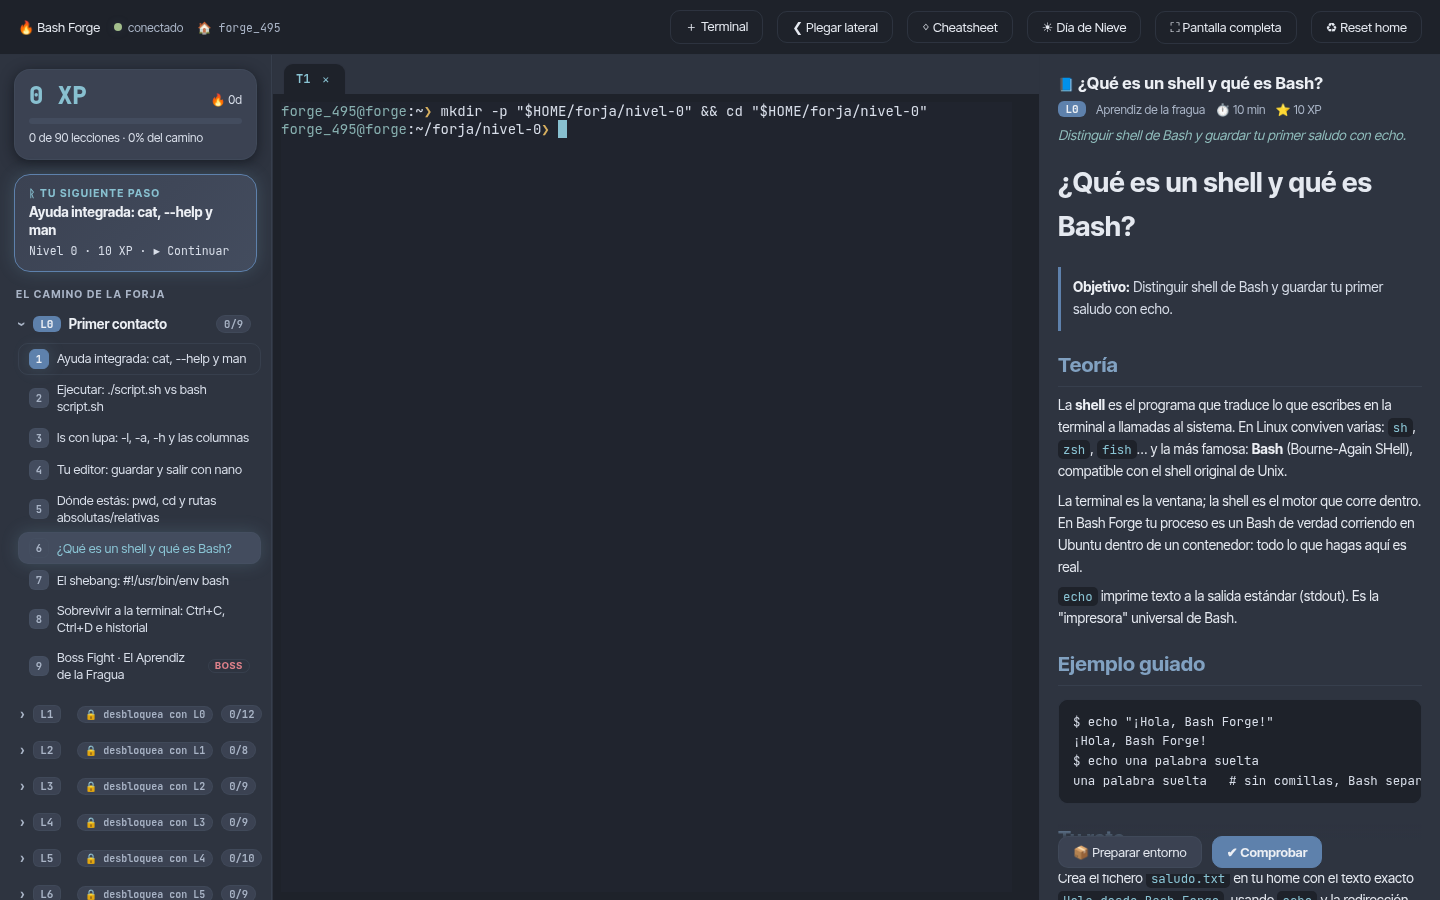
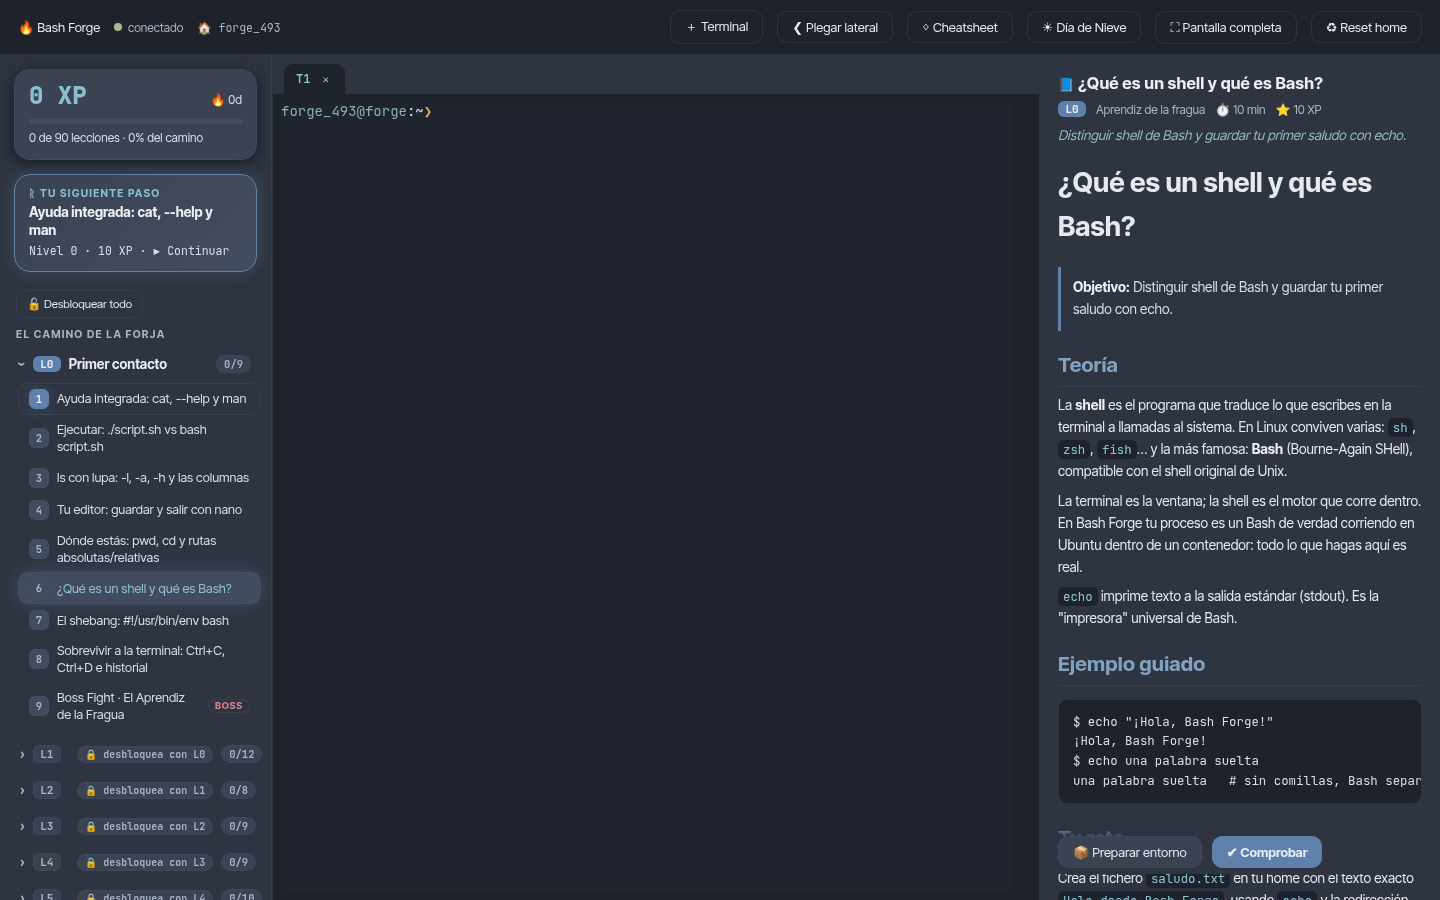
Fase 11: modo avanzado «Desbloquear todo» con re-bloqueo selectivo
- Botón en el sidebar: «🔓 Desbloquear todo» abre cualquier nivel para
  repaso de usuarios avanzados (persistido en localStorage).
- «🔒 Volver a bloquear» re-sella SOLO los niveles que el progreso del
  alumno tenía bloqueados; los ya desbloqueados quedan abiertos.
- El guard de apertura de lecciones respeta el modo (sin flash 🔒).
- E2E ampliado: locked 81→0, Boss L9 abre sin candado, re-lock 81=81;
  evidencias en docs/evidence/10-unlocks/.

🤖 Generated with Codebuff

Changed region(s): [[0.0, 0.3111, 0.1875, 1.0], [0.1875, 0.0933, 0.4062, 0.1556], [0.5312, 0.0933, 0.5625, 0.1244]]

diff --git a/apps/web/src/panels.tsx b/apps/web/src/panels.tsx
@@ -6,6 +6,7 @@ import type { ForgeWs } from "./wsClient";
 import type { LessonLevel, LessonLevelInfo } from "@bashforge/shared";
 import type { LevelGroup } from "./catalog";
 import { isLevelLocked, unlockedLevel } from "./catalog";
+import { isUnlockAll, setUnlockAll } from "./store";
 import { ProgressPopup } from "./progress-popup";
 
 /** ------------------------------------------------------------------ */
@@ -34,7 +35,19 @@ export function Sidebar({ groups, progress, current, onSelect, onImport }: Sideb
   const pct = route.length ? Math.round((doneCount / route.length) * 100) : 0;
 
   // desbloqueo progresivo: el nivel N se abre al completar TODAS las del N-1
-  const unlocked = useMemo(() => unlockedLevel(progress.completed, groups), [progress.completed, groups]);
+  // modo avanzado: con «Desbloquear todo» activo, ningún nivel queda sellado
+  const [todoDesbloqueado, setTodoDesbloqueado] = useState(isUnlockAll);
+  const unlocked = useMemo(
+    () => (todoDesbloqueado ? 9 : unlockedLevel(progress.completed, groups)) as LessonLevel,
+    [progress.completed, groups, todoDesbloqueado],
+  );
+  const toggleDesbloqueo = () => {
+    setTodoDesbloqueado((v) => {
+      const nv = !v;
+      setUnlockAll(nv);
+      return nv;
+    });
+  };
 
   // niveles abiertos: los desbloqueados hasta el del siguiente paso (controlado, para no pelear con <details>)
   // persistidos: al recargar, la forja retoma EN la sección donde estabas
@@ -104,6 +117,21 @@ export function Sidebar({ groups, progress, current, onSelect, onImport }: Sideb
           <span className="next-meta">Repasa lo que quieras</span>
         </div>
       )}
+
+      <div className="unlock-row">
+        <button
+          className={`ghost unlock-btn${todoDesbloqueado ? " on" : ""}`}
+          onClick={toggleDesbloqueo}
+          title={
+            todoDesbloqueado
+              ? "Restaura los candados: se vuelven a sellar solo los niveles que estaban bloqueados por tu progreso"
+              : "Usuario avanzado: abre todos los niveles para practicar cualquiera"
+          }
+        >
+          {todoDesbloqueado ? "🔒 Volver a bloquear" : "🔓 Desbloquear todo"}
+        </button>
+        {todoDesbloqueado && <span className="unlock-hint">modo avanzado · niveles libres</span>}
+      </div>
 
       <div className="tree-title">El camino de la forja</div>
       <nav className="lesson-tree">

diff --git a/apps/web/src/App.tsx b/apps/web/src/App.tsx
@@ -6,6 +6,7 @@ import { LessonPanel, Sidebar, flatOrder } from "./panels";
 import { Cheatsheet } from "./cheatsheet-popup";
 import type { LevelGroup } from "./catalog";
 import { groupByLevel, isLevelLocked, unlockedLevel } from "./catalog";
+import { isUnlockAll } from "./store";
 import { currentTheme, toggleTheme } from "./theme";
 import {
   bumpStreak,
@@ -214,9 +215,10 @@ export function App() {
   const selectLesson = useCallback(
     async (id: string) => {
       // candado por nivel: no se puede abrir una lección de un nivel bloqueado
+      // (el modo avanzado «Desbloquear todo» lo ignora)
       const completed = progressRef.current?.completed ?? [];
       const lvl = catalog.find((m) => m.id === id)?.level ?? loaded.get(id)?.level;
-      if (lvl != null && isLevelLocked(lvl, unlockedLevel(completed, groupsRef.current))) {
+      if (!isUnlockAll() && lvl != null && isLevelLocked(lvl, unlockedLevel(completed, groupsRef.current))) {
         flash(`🔒 Ese nivel sigue sellado: termina todas las lecciones del nivel ${lvl - 1} y se desbloqueará solo.`);
         return;
       }

diff --git a/apps/web/src/styles.css b/apps/web/src/styles.css
@@ -113,6 +113,16 @@ button.ghost:hover:not(:disabled) { background: var(--bg-surface); }
 .next-title { font-size: 13.5px; font-weight: 700; color: var(--fg-strong); line-height: 1.3; }
 .next-meta { font-size: 11.5px; color: var(--fg-muted); font-family: var(--font-mono); }
 
+.unlock-row {
+  display: flex; align-items: center; gap: 8px;
+  padding: 4px 16px 8px; flex-wrap: wrap;
+}
+.unlock-btn { flex: 0 1 auto; padding: 6px 10px; font-size: 11.5px; }
+.unlock-btn.on { color: var(--aurora-y-text); border-color: var(--aurora-y); }
+.unlock-hint {
+  font-size: 10px; letter-spacing: .4px; color: var(--fg-faint); font-family: var(--font-mono);
+}
+
 .tree-title {
   padding: 2px 16px 6px; font-size: 10.5px; letter-spacing: 1.3px;
   text-transform: uppercase; color: var(--fg-faint); font-weight: 700;

diff --git a/apps/web/src/store.ts b/apps/web/src/store.ts
@@ -2,6 +2,24 @@ import type { ProgressSnapshot } from "@bashforge/shared";
 import { BADGES, LESSON_LEVELS, type LessonLevel } from "@bashforge/shared";
 
 const KEY = "bf.progress.v1";
+const UNLOCK_KEY = "bf.unlockAll";
+
+/** Modo avanzado: «Desbloquear todo» ignora los candados progresivos (repaso libre). */
+export function isUnlockAll(): boolean {
+  try {
+    return localStorage.getItem(UNLOCK_KEY) === "1";
+  } catch {
+    return false;
+  }
+}
+
+export function setUnlockAll(on: boolean): void {
+  try {
+    localStorage.setItem(UNLOCK_KEY, on ? "1" : "0");
+  } catch {
+    /* modo privado */
+  }
+}
 
 export function blankProgress(forgeId: string): ProgressSnapshot {
   return {

diff --git a/docs/evidence/INDEX.md b/docs/evidence/INDEX.md
@@ -55,3 +55,4 @@
 | 10 | Purga con export de seguridad | `/api/progress` + `/api/progress/:forgeId` y respaldo automático en `backups/` ANTES de borrar volúmenes + confirmación | backup `bashforge-progreso-forge_demo.json` generado en `backups/progreso-*/` y borrado después intacto | `apps/sandbox-server/src/http.ts` + log |
 | 10 | Nivel 9: bucles | level9.yaml (for reforzado, while acumulador, until, case en bucle, anidados break 2, while shift, reto y boss) + LESSON_LEVELS/ unlocking a 9 | sonda: 8/8 lecciones en verde (22 tareas) con solución | log del shell + `packages/lessons/levels/level9.yaml`
 | 10 | Web y lint al día | recuento de niveles 9→10 en tests, lint-lessons admite 9, E2E del popup actualizado (progreso-export real) | lint E2E y typecheck ×3 en verde; 90 lecciones generadas | log de `scripts/lint.sh` + E2E |
+| 11 | Modo avanzado «Desbloquear todo» | botón en el sidebar (bf.unlockAll en localStorage): ignora los candados progresivos, inditado en el guard de App; «Volver a bloquear» re-sella SOLO los niveles que el progreso tenía bloqueados | E2E: locked 81→0, Boss L9 abre sin flash, re-lock 81=81; captura del modo on | `10-unlocks/app__unlock-all__*.png` + log E2E |
